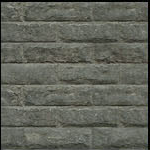
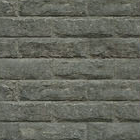
Created pattern for walls

diff --git a/js/main.js b/js/main.js
@@ -14,6 +14,9 @@ let runCountDown = setInterval(countDown, 1000)
 let runGame = setInterval(gameLoop, 60)
 let countDisplay = document.getElementById("countdown")
 
+var walltile = new Image()
+walltile.src = "../img/walltile.png"
+
 var walls = []
 
 // Adds walls to array.
@@ -143,6 +146,9 @@ walls.push({
 function drawWalls() {
   ctx.fillStyle = "grey"
   for(i = 0; i < walls.length; i++){
+    // ctx.fillRect(walls[i].x, walls[i].y, walls[i].width, walls[i].height)
+    var pat = ctx.createPattern(walltile, "repeat")
+    ctx.fillStyle = pat
     ctx.fillRect(walls[i].x, walls[i].y, walls[i].width, walls[i].height)
   }
 }
